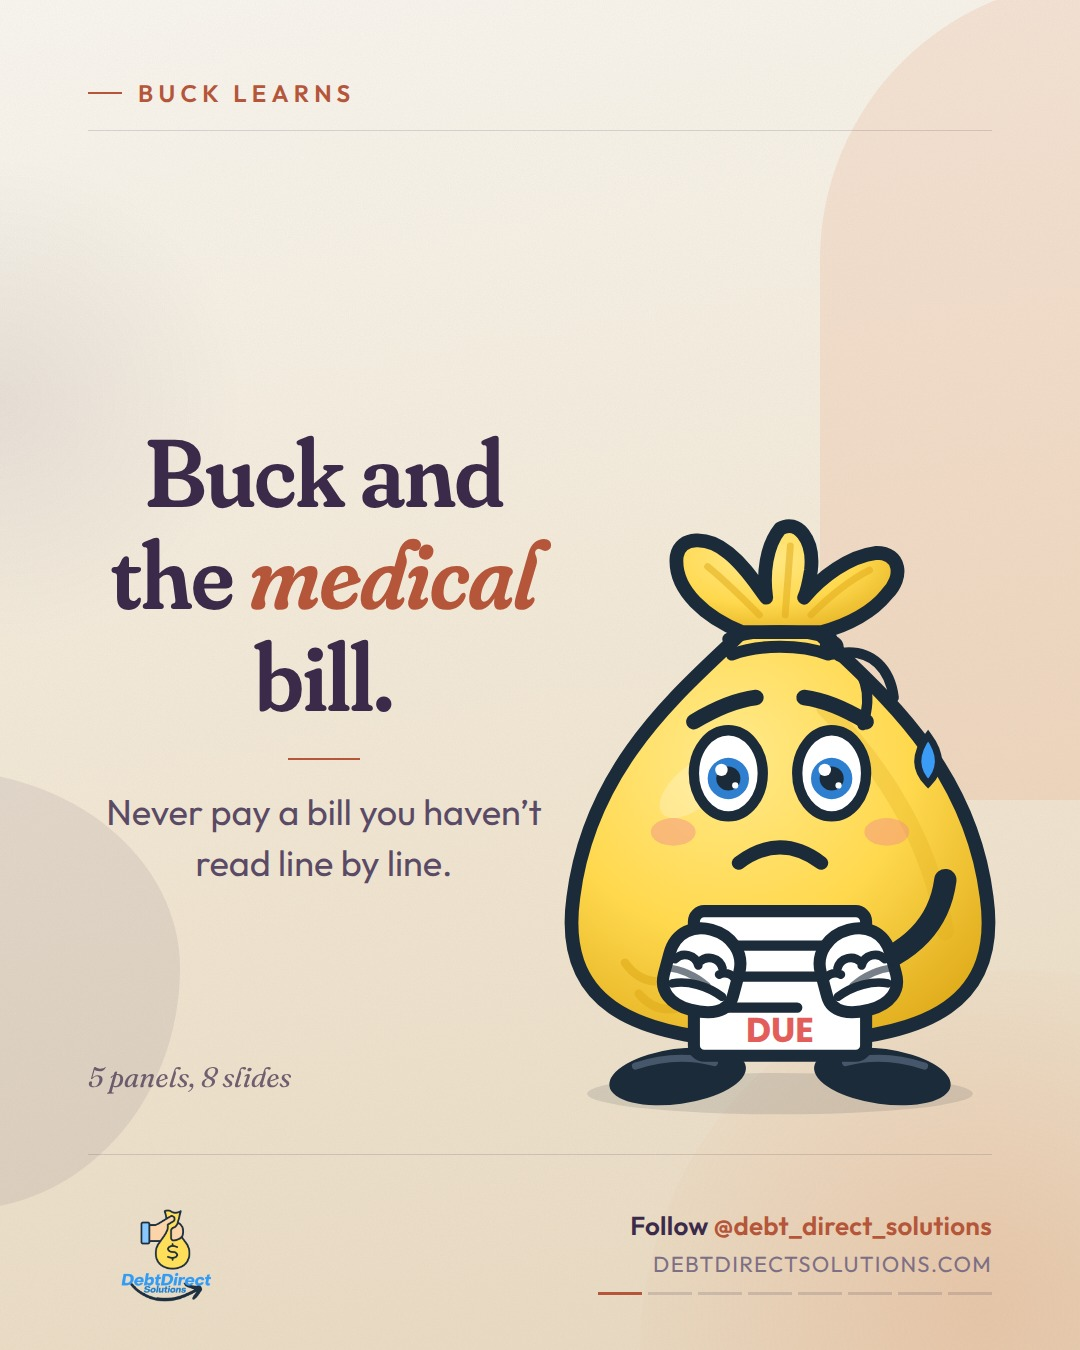
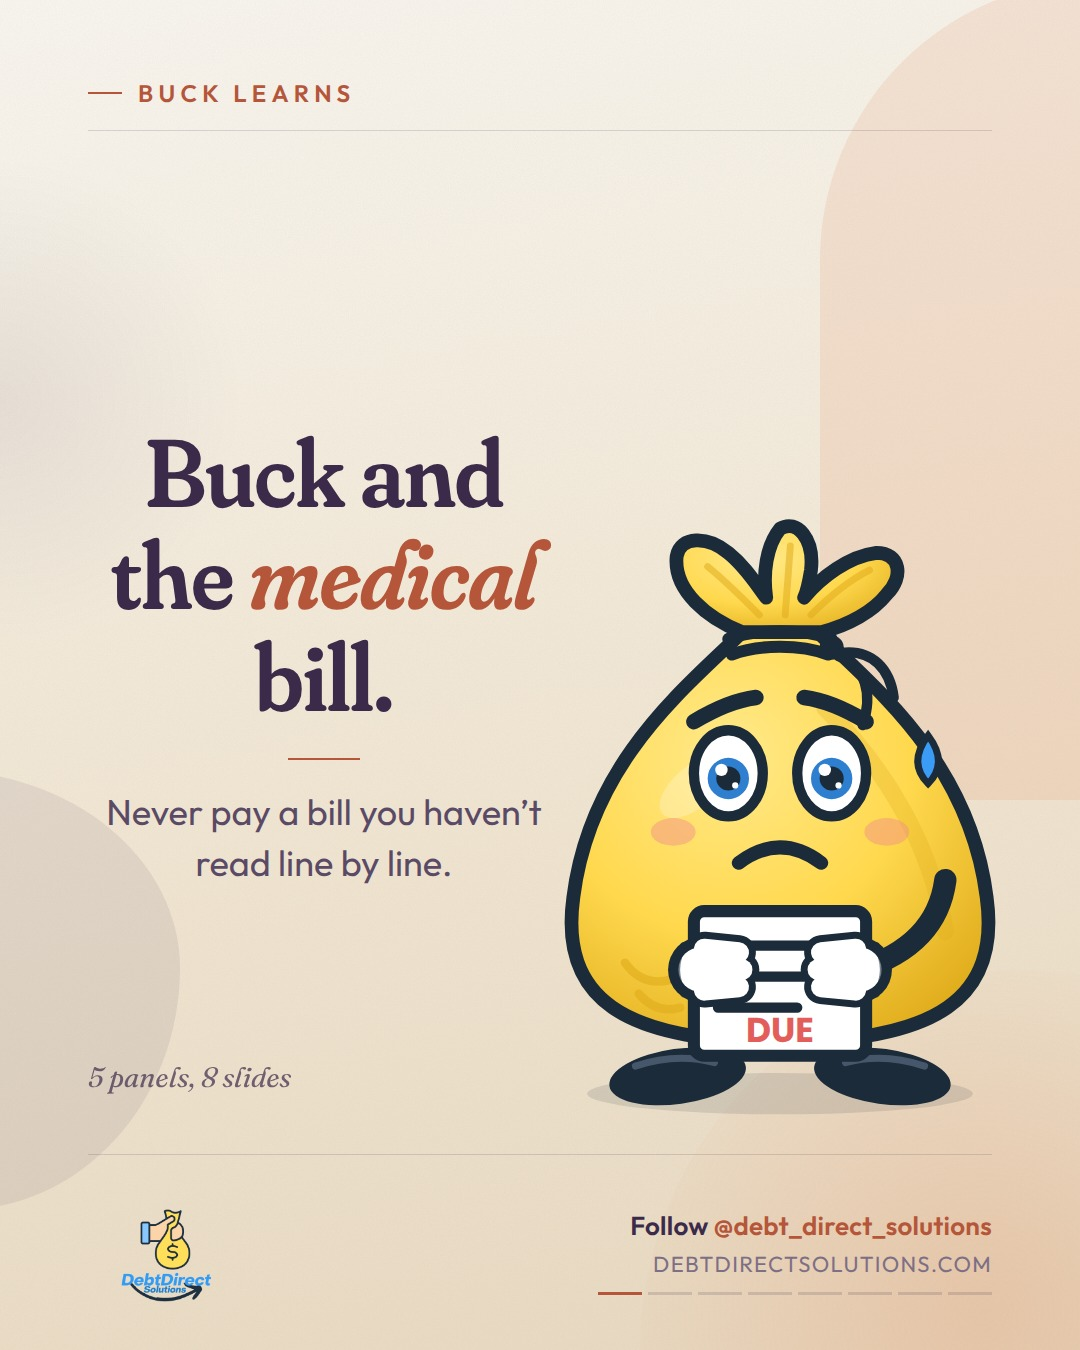
mascot: simpler grip in the glove style; comics re-rendered
Claude-Session: https://claude.ai/code/session_012exzCMp7RCQNb1KJZRMuDV

Changed region(s): [[0.7333, 0.6844, 0.8556, 0.7778], [0.6111, 0.6844, 0.7028, 0.7778]]

diff --git a/agent/src/social/mascot.py b/agent/src/social/mascot.py
@@ -143,13 +143,17 @@ def _glove(x: int, y: int, rot: float = 0, mirror: bool = False) -> str:
 
 
 def _fist(x: int, y: int, rot: float = 0, mirror: bool = False) -> str:
-    """A closed cartoon hand gripping something: mitten palm, three knuckle bumps curling over the edge, a thumb across."""
+    """A gripping hand in the same style as the open glove: round palm, three fingers curled
+    forward over the edge of the object (drawn in front of it). Fingers point +x before mirroring."""
+    fingers = [(2, -12, 22, -10), (4, 0, 24, 0), (2, 12, 22, 10)]
+    def layer(color, w, r):
+        out = f'<circle cx="0" cy="0" r="{r}" fill="{color}"/>'
+        for x1, y1, x2, y2 in fingers:
+            out += f'<line x1="{x1}" y1="{y1}" x2="{x2}" y2="{y2}" stroke="{color}" stroke-width="{w}" stroke-linecap="round"/>'
+        return out
+    cuff = f'<path d="M-10 -14 q -8 14 0 28" fill="none" stroke="{NAVY}" stroke-width="4" stroke-linecap="round" opacity=".6"/>'
     flip = " scale(-1 1)" if mirror else ""
-    body = (f'<path d="M-20 -4 C -20 -18, -10 -24, 0 -24 C 12 -24, 22 -16, 22 -4 L 22 10 C 22 20, 12 24, 0 24 C -12 24, -20 18, -20 8 Z" fill="{WHITE}" stroke="{NAVY}" stroke-width="7" stroke-linejoin="round"/>'
-            f'<path d="M-16 -2 a 8 8 0 0 1 14 0 M-2 -4 a 8 8 0 0 1 14 0 M11 0 a 7 7 0 0 1 11 2" fill="none" stroke="{NAVY}" stroke-width="5" stroke-linecap="round"/>'
-            f'<path d="M-14 12 C -6 8, 6 8, 16 12" fill="none" stroke="{NAVY}" stroke-width="5" stroke-linecap="round"/>'
-            f'<path d="M-20 4 q 14 -2 26 4" fill="none" stroke="{NAVY}" stroke-width="4" stroke-linecap="round" opacity=".6"/>')
-    return f'<g transform="translate({x} {y}) rotate({rot:.0f}){flip}">{body}</g>'
+    return f'<g transform="translate({x} {y}) rotate({rot:.0f}){flip}">{layer(NAVY, 20, 19)}{layer(WHITE, 12, 13)}{cuff}</g>'
 
 
 def _arm(side: str, pose: str) -> str:
@@ -179,7 +183,7 @@ def _arm(side: str, pose: str) -> str:
         rot = along
     mirror = side == "R"       # thumb toward the body on both hands
     line = f'<path d="M{sx} {sy} Q {cx} {cy} {hx} {hy}" fill="none" stroke="{NAVY}" stroke-width="13" stroke-linecap="round"/>'
-    hand = _fist(int(hx), int(hy), -15 * d, mirror) if pose == "hold" else _glove(int(hx), int(hy), rot, mirror)
+    hand = _fist(int(hx), int(hy), 0, mirror) if pose == "hold" else _glove(int(hx), int(hy), rot, mirror)
     return line + hand
 
 
